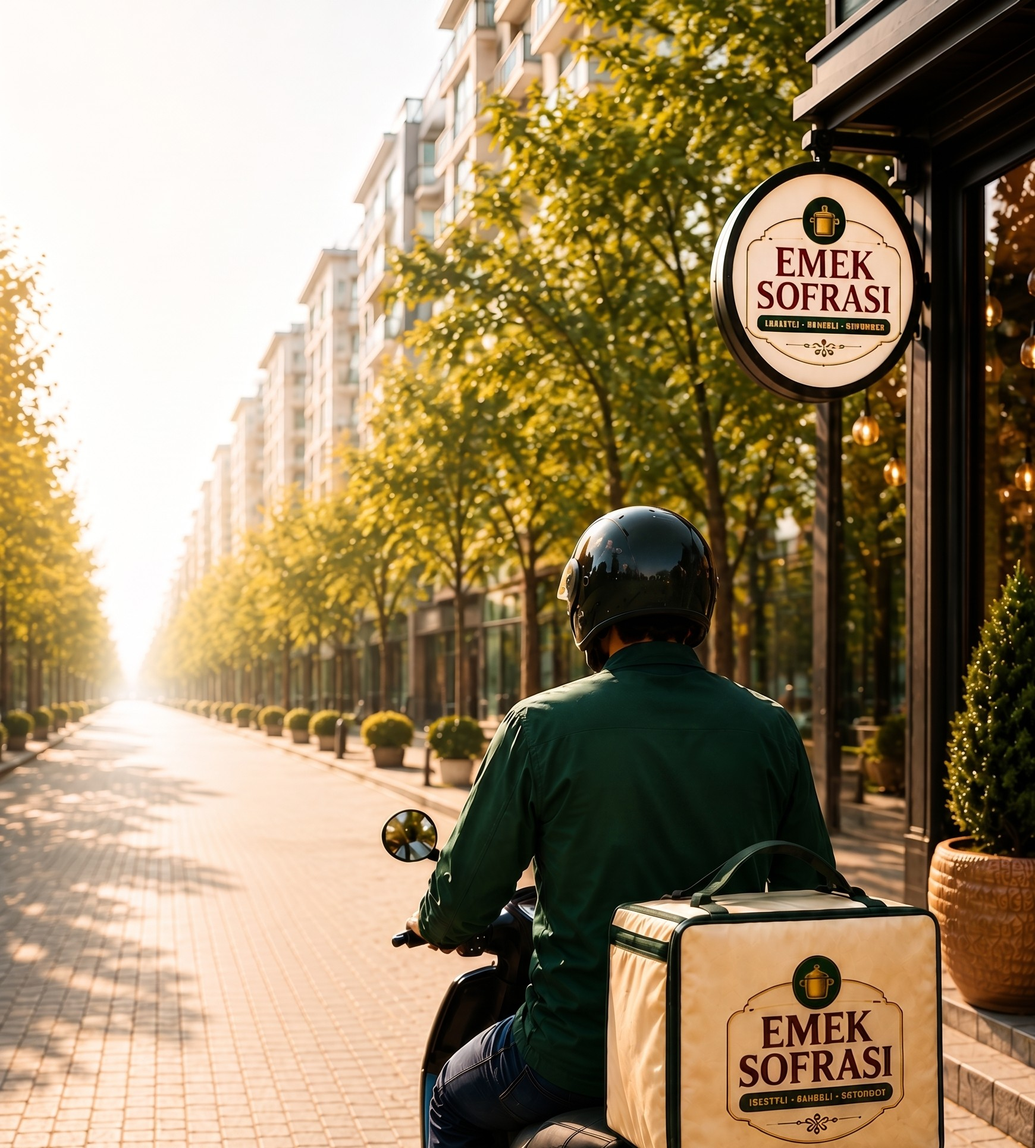
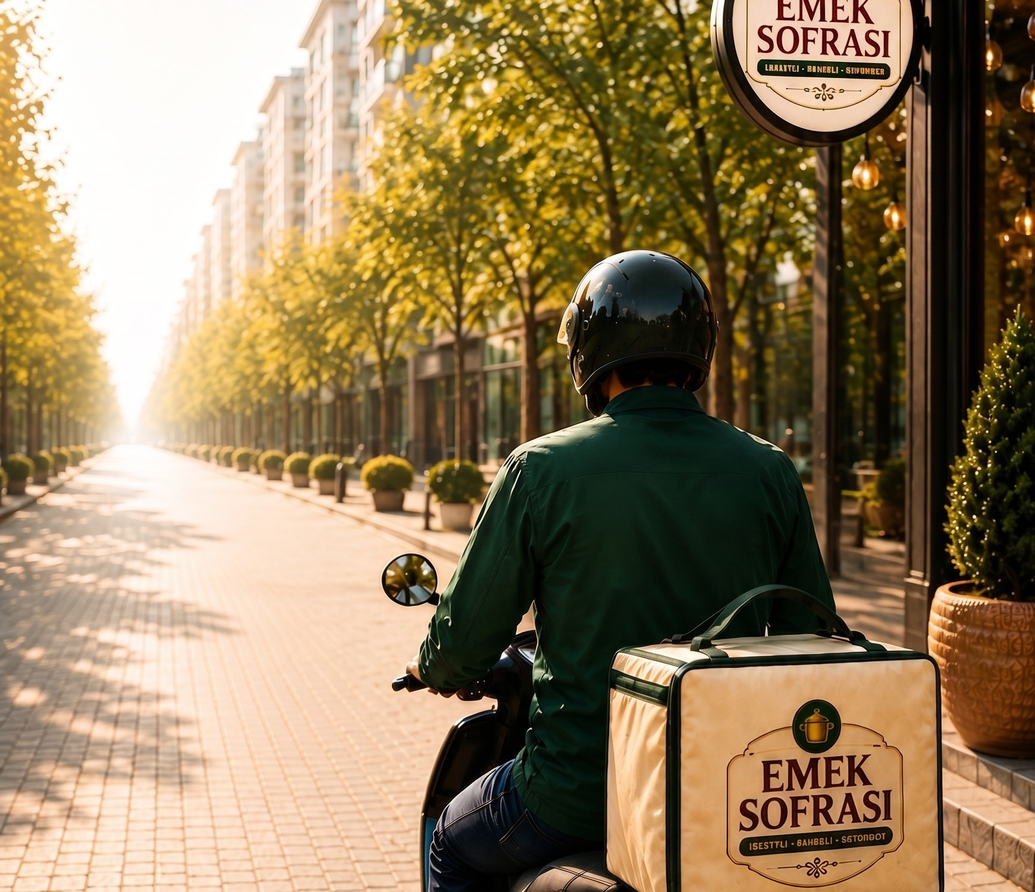
fix(paket-servis): arka plan görselini yakınlaştırma — doğal oranında göster
Kullanıcı: orta bölüm boyutu tamam ama görsel yakınlaştırılmış.
17. turdaki object-fit:cover + sabit yükseklik görseli zoom'luyordu.
Çözüm: görsel yukarıdan kırpıldı (1740x1930 → 1740x1500, fazla
gökyüzü/bina atıldı, kurye + ayna + tabela + logolu çanta korundu).
.pk-hero__frame aspect-ratio 1740/1500, yükseklik viewport'a sabit,
genişlik orana göre → görsel DOĞAL oranında, zoom/kırpma yok, hero
hâlâ tek ekrana sığıyor. Mobil object-position kuryeye göre ayarlandı.

diff --git a/css/paket-servis.css b/css/paket-servis.css
@@ -45,19 +45,22 @@
 }
 .pk-hero__frame {
   position: relative;
-  width: min(92vw, 1100px);
-  /* İLK EKRANA SIĞAR — header + topline çıkarıldı, kaydırma yok */
+  /* İLK EKRANA SIĞAR + GÖRSEL DOĞAL ORANINDA (yakınlaştırma/kırpma yok):
+     yükseklik viewport'a sabit, genişlik görselin oranına göre. */
   height: calc(100svh - var(--header-h) - 34px);
+  aspect-ratio: 1740 / 1500;
+  width: auto;
+  max-width: 92vw;
   overflow: hidden;
   background: var(--pk-scrim);
 }
 
-/* --- Manzara fotoğrafı — frame'i kaplar; kurye + ayna + çanta görünür --- */
+/* --- Manzara fotoğrafı — frame'i DOĞAL oranıyla doldurur (kırpma/zoom yok) --- */
 .pk-hero__bg {
   position: absolute; inset: 0;
   width: 100%; height: 100%;
   object-fit: cover;
-  object-position: 60% 69%;   /* kurye + ayna + logolu çanta ilk ekranda; tabela üstü hafif kırpık */
+  object-position: center;
   z-index: 0;
 }
 
@@ -336,7 +339,7 @@
     position: absolute; inset: 0;
     width: 100%; height: 100%;
     object-fit: cover;
-    object-position: 64% 30%;
+    object-position: 58% 62%;
     z-index: 0;
     clip-path: none;
   }
